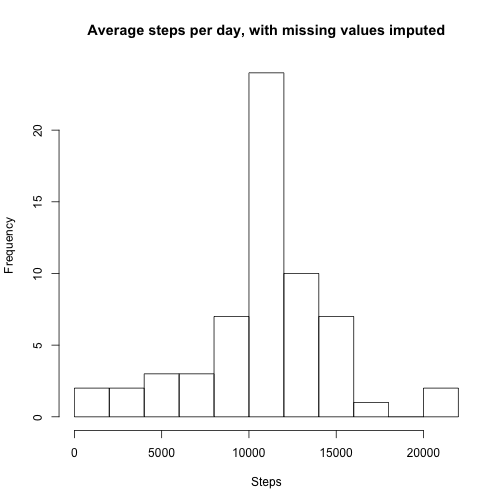
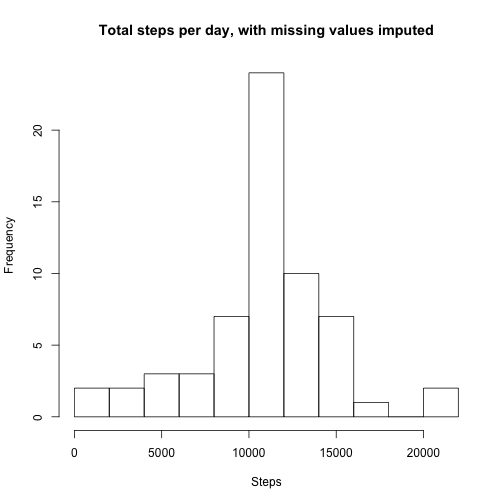
Fix typos

Changed region(s): [[0.1786, 0.0298, 0.8929, 0.0893]]

diff --git a/PA1_template.html b/PA1_template.html
@@ -351,10 +351,10 @@ summary(fixeddata)
 
 <pre><code class="r">stepsperday &lt;- tapply(fixeddata$steps, fixeddata$date, sum)
 hist(stepsperday, breaks=seq(0,22000,2000), 
-     main=&quot;Average steps per day, with missing values imputed&quot;,xlab=&quot;Steps&quot;)
+     main=&quot;Total steps per day, with missing values imputed&quot;,xlab=&quot;Steps&quot;)
 </code></pre>
 
[2 lines of base64/hex data omitted]
 
 <pre><code class="r">mean(stepsperday)
 </code></pre>
@@ -378,7 +378,7 @@ fixeddata$weekend &lt;- ifelse(isweekend(fixeddata$date),&quot;Weekend&quot;,&qu
 avgday_weekend &lt;- aggregate(steps ~ interval+weekend, data=fixeddata, FUN=mean)
 </code></pre>
 
-<p>Using the lattice library, we can plot the results like earlier, but now split by weekend vs. weekday. As expected, we can see that the day starts a bit later in the weekend (few people starting before 8AM), the morning peak is less pronounced in the weekend, and more steps are taken throughout the day.</p>
+<p>Using the lattice library, we can plot the results like earlier, but now split by weekend vs. weekday. As expected, we can see that the day starts a bit later in the weekend (few people starting before 8AM), and the morning peak is less pronounced in the weekend; steps are spread more evenly throughout the waking hours of the day.</p>
 
 <pre><code class="r">library(lattice)
 xyplot(steps ~ interval|weekend, data=avgday_weekend, type=&quot;l&quot;, layout=c(1,2), 

diff --git a/PA1_template.md b/PA1_template.md
@@ -195,7 +195,7 @@ Now we can recalculate the average total steps per day, and the median and avera
 ```r
 stepsperday <- tapply(fixeddata$steps, fixeddata$date, sum)
 hist(stepsperday, breaks=seq(0,22000,2000), 
-     main="Average steps per day, with missing values imputed",xlab="Steps")
+     main="Total steps per day, with missing values imputed",xlab="Steps")
 ```
 
 ![plot of chunk unnamed-chunk-11](figure/unnamed-chunk-11.png) 
@@ -229,7 +229,7 @@ avgday_weekend <- aggregate(steps ~ interval+weekend, data=fixeddata, FUN=mean)
 ```
 
 
-Using the lattice library, we can plot the results like earlier, but now split by weekend vs. weekday. As expected, we can see that the day starts a bit later in the weekend (few people starting before 8AM), the morning peak is less pronounced in the weekend, and more steps are taken throughout the day.
+Using the lattice library, we can plot the results like earlier, but now split by weekend vs. weekday. As expected, we can see that the day starts a bit later in the weekend (few people starting before 8AM), and the morning peak is less pronounced in the weekend; steps are spread more evenly throughout the waking hours of the day.
 
 
 
